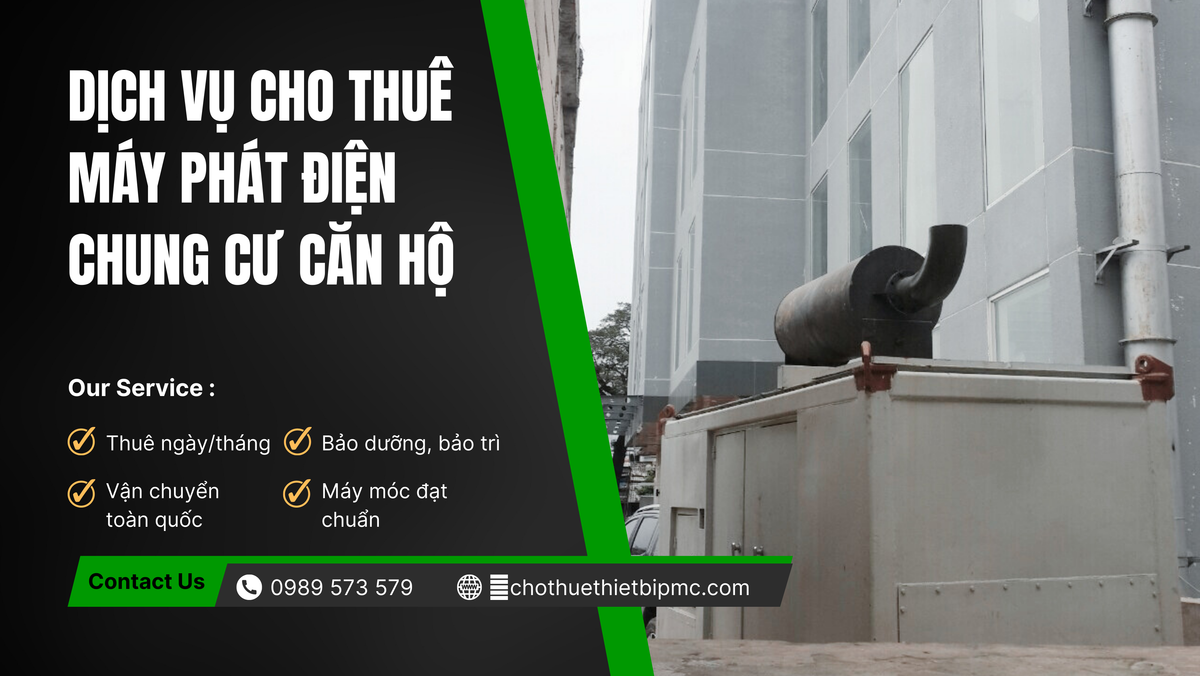
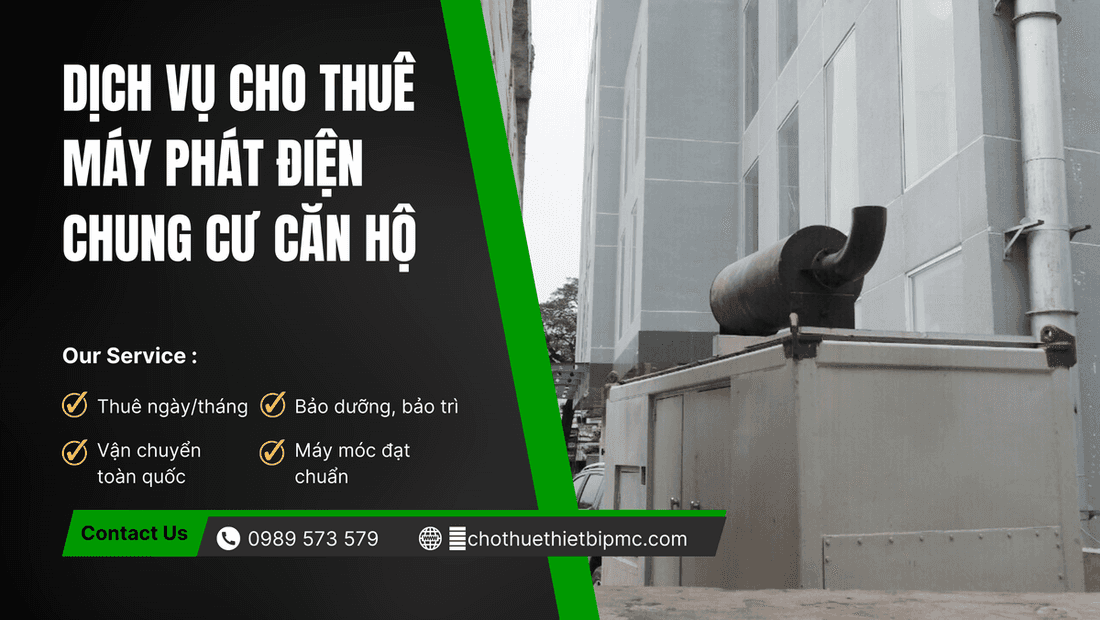
chore: code-quality pass — lint clean, remove dead code, optimize assets
- Fix lint: Reveal setState-in-effect, Hero internal <a> → next/link,
  drop unused eslint-disable directives (Img, CategoryCard)
- Remove dead components (motion/TiltCard, motion/CountUp — 0 usages)
- Re-compress heaviest blog image (748KB → 143KB PNG + fresh WebP)

diff --git a/src/components/Hero.tsx b/src/components/Hero.tsx
@@ -1,3 +1,4 @@
+import Link from 'next/link';
 import { Img } from './ui/Img';
 import { telHref, defaultSiteSettings, type SiteSettings } from '@/config/site';
 
@@ -40,12 +41,12 @@ export function Hero({ settings = defaultSiteSettings }: { settings?: SiteSettin
             >
               Gọi báo giá · {phone}
             </a>
-            <a href="/thiet-bi/" className="group inline-flex items-center gap-3 text-[15.5px] font-medium text-white">
+            <Link href="/thiet-bi/" className="group inline-flex items-center gap-3 text-[15.5px] font-medium text-white">
               <span className="flex h-12 w-12 items-center justify-center rounded-full border border-white/40 transition-colors group-hover:border-white group-hover:bg-white group-hover:text-ink">
                 <svg viewBox="0 0 24 24" className="h-4 w-4" fill="currentColor"><path d="M8 5v14l11-7z" /></svg>
               </span>
               Xem thiết bị
-            </a>
+            </Link>
           </div>
         </div>
       </div>

diff --git a/src/components/CategoryCard.tsx b/src/components/CategoryCard.tsx
@@ -17,7 +17,6 @@ export function CategoryCard({
     >
       <picture>
         <source srcSet={category.image.replace(/\.jpe?g$/i, '.webp')} type="image/webp" />
-        {/* eslint-disable-next-line @next/next/no-img-element */}
         <img
           src={category.image}
           alt={`Cho thuê ${category.name}`}

diff --git a/src/components/motion/Reveal.tsx b/src/components/motion/Reveal.tsx
@@ -24,10 +24,6 @@ export function Reveal({
   useEffect(() => {
     const node = ref.current;
     if (!node) return;
-    if (typeof IntersectionObserver === 'undefined') {
-      setVisible(true);
-      return;
-    }
     const io = new IntersectionObserver(
       ([entry]) => {
         if (entry.isIntersecting) {

diff --git a/src/components/ui/Img.tsx b/src/components/ui/Img.tsx
@@ -29,7 +29,6 @@ export function Img({
   return (
     <picture className="contents">
       {webp !== src && <source srcSet={webp} type="image/webp" />}
-      {/* eslint-disable-next-line @next/next/no-img-element */}
       <img
         src={src}
         alt={alt}
